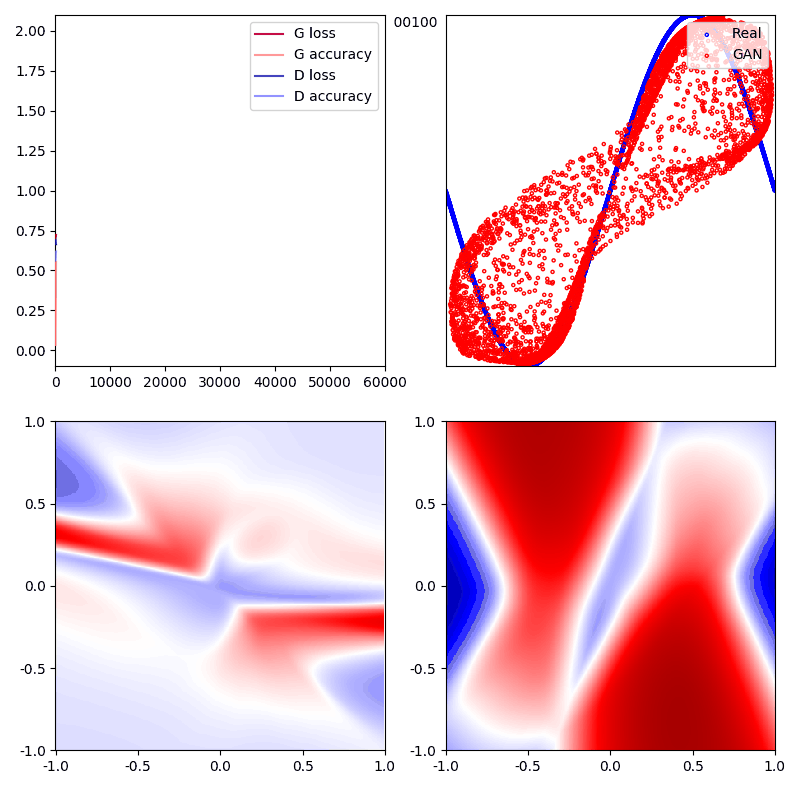
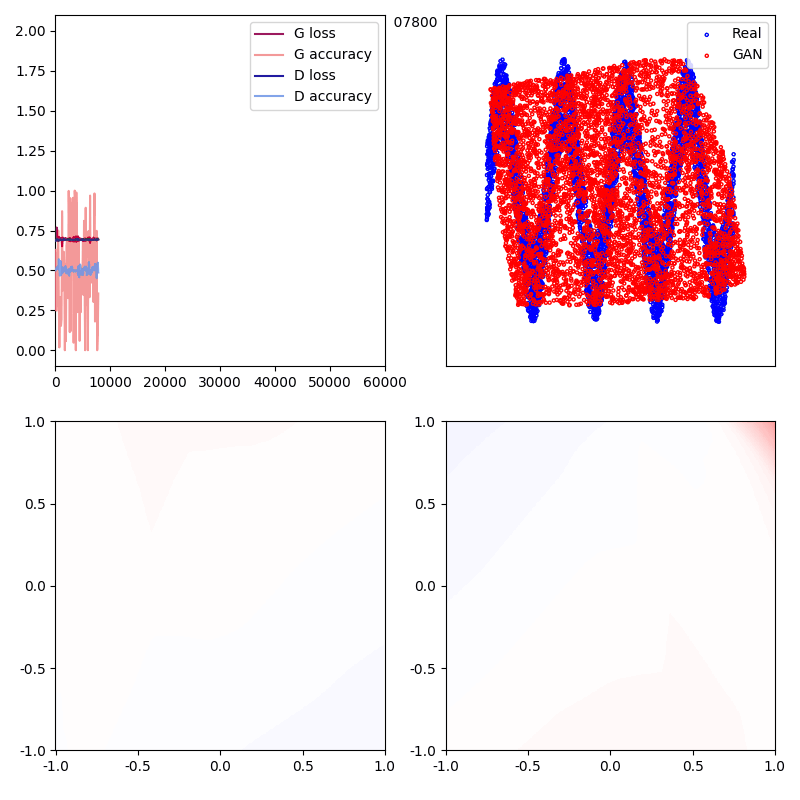
1

diff --git a/MDYSB6/MDYSB6.tex b/MDYSB6/MDYSB6.tex
@@ -95,7 +95,7 @@ GAN通常都会应用在如生成各种各样的图像的问题上. 这些问题
 我们实验的第一个变换是将整个方块变换为正弦波, 即
 \begin{align}
 	f_x(x,y)&=x\\
-	f_y(x,y)&=sin(x)
+	f_y(x,y)&=sin(x)+\dfrac{y}{4}
 \end{align}
 
 \begin{figure}[hbt]
@@ -107,25 +107,27 @@ GAN通常都会应用在如生成各种各样的图像的问题上. 这些问题
   \caption{从左到右可以看出我们的变换$f$如何从Unif$[-1,1]^2$生成所需分布$\mathcal U$}
 \end{figure}
 
-我们得到的是一个在这条曲线上的均匀分布.
+我们得到的是一个在这个正弦波形区域里的均匀分布.
 
 \subsubsection{实验结果}
+
+我们的实验发现这样的训练一共大概分三个时期. 捕捉大致范围, 捕捉细致分布到最后病态化.
+
+\subsubsection{捕捉大致范围}
 
 \begin{figure}[hbt]
 \centering
   \includegraphics[width=0.45\textwidth]{sin_2_1}
   \includegraphics[width=0.45\textwidth]{sin_2_2}\\
-  \includegraphics[width=0.45\textwidth]{sin_2_3}
-  \includegraphics[width=0.45\textwidth]{sin_2_4}
-  \caption{我们可以看到我们的网络收敛地十分迅速, 在200次左右的迭代后我们的生成器已经可以生成这样的的数据了. 并且我们的分类器也很好地捕捉到了样本空间的分类边界.}
+  \caption{}
 \end{figure}
 
-我们的可视化在训练刚开始的时候收敛的十分迅速, 得到了比较好的结果. 因为我们的函数非常简单, 我们的GAN的表现看似非常满意.
+首先我们看到在GAN得训练的初期阶段, 我们的分类器在帮助我们的生成器去捕捉一个大概的分布的范围. 并且很快我们的生成器就捕捉到了大致的范围, 可能是因为我们的函数比较简单.
 
 
-\subsubsection{GAN的混沌性}
+\subsubsection{捕捉细致分布}
 
-但是随着实验的进行, GAN的分类器网络的训练呈现出了极度混沌化的特征. 其分类边界与分类区域出现了多次彻底的反转, 并且其变化呈现出了完全没有规律的特点. 在我们的生成器已经很好地捕捉到了分布的前提下, 我们的分类器却在不断摇摆.
+随着训练的进行, 我们发现一开始在捕捉到大致范围了以后, 生成器生成的点反而比较集中于两个波峰之间的白色区域里, 也就是没有生成出我们需要的样本. 但是慢慢的我们的辨别器成功地帮我们的生成器矫正了这些错误. 我们的生成器在经过15000次训练了以后表现已经不错了. 只有少部分点落在了白色区域, 大部分点都集中在了真实样本所在的区域. 这个时候我们的生成器已经可以代替我们的$f$来进行数据生成的工作了.
 
 \begin{figure}[hbt]
 \centering
@@ -133,20 +135,32 @@ GAN通常都会应用在如生成各种各样的图像的问题上. 这些问题
   \includegraphics[width=0.45\textwidth]{sin_3_2}\\
   \includegraphics[width=0.45\textwidth]{sin_3_3}
   \includegraphics[width=0.45\textwidth]{sin_3_4}
-  \caption{从图上可以看到上下两行的分类器在输入空间中的分类情况在我们的生成器已经习得了需要分布了以后, 发生了彻底的反转. 分类器再经过了几个batch以后彻底推翻了自己之前的结果. 从图上看就是之前是蓝的的地方现在变成了红色, 之前是红色的地方现在变成了蓝色. 下面一行也有着类似的情况.}
-\end{figure}
-
-并且随着训练的进行, 我们的辨别器捕捉到的在样本空间中的分类边界反而变得比一开始更加模糊, 之前认为是真实样本的区域完全消失掉了. 原来样本空间中正弦波样式的分类边界逐渐消失变为了一整个辨别器无法确定真假的长方形区域. 并且我们在输入空间中的辨别器输出大部分都变为了不确定. 同时生成器也出现了较大的波动. 
-
-\begin{figure}[hbt]
-  \includegraphics[width=0.45\textwidth]{sin_5_1}
-  \includegraphics[width=0.45\textwidth]{sin_5_2}\\
-  \includegraphics[width=0.45\textwidth]{sin_5_3}
-  \includegraphics[width=0.45\textwidth]{sin_5_4}
   \caption{}
 \end{figure}
 
-我们无法明确地解释为什么会出现这样的混沌现象. 但是这的确是GAN的特点之一. 我们认为通过多次实验或者是对超参数的调整可能能够解决这样的问题. 不过这么简单的一个函数的拟合能够反映出来这么多有趣的现象的确是我们没有想到的. GAN的训练的困难可见一斑.
+%并且随着训练的进行, 我们的辨别器捕捉到的在样本空间中的分类边界反而变得比一开始更加模糊, 之前认为是真实样本的区域完全消失掉了. 原来样本空间中正弦波样式的分类边界逐渐消失变为了一整个辨别器无法确定真假的长方形区域. 并且我们在输入空间中的辨别器输出大部分都变为了不确定. 同时生成器也出现了较大的波动. 
+
+\subsubsection{病态化}
+
+但是随着训练的继续, 我们发现我们的GAN陷入了一个无法跳出的怪圈. 我们的分类器指导我们的生成器向着一个错误的方向进行了改进, 并且一直到60000次训练结束的时候我们还是看不到任何的改善. 首先我们的在白色区域的生成样本逐渐变多. 并且可以很明显的看到我们的生成样本在逐渐集中到一条对角线上. 我们认为这样的现象有如下几种可能
+
+\begin{enumerate}
+	\item 网络太浅, 表达能力不足.
+	\item 训练次数不够.
+	\item 超参不合适.
+\end{enumerate}
+
+我们通过进一步的实验的现象猜测最有可能是因为超参数的设置不合理. 进一步实验的细节见后.
+
+\begin{figure}[hbt]
+  \includegraphics[width=0.3\textwidth]{sin_4_1}
+  \includegraphics[width=0.3\textwidth]{sin_4_2}
+  \includegraphics[width=0.3\textwidth]{sin_4_3}\\
+  \includegraphics[width=0.3\textwidth]{sin_4_4}
+  \includegraphics[width=0.3\textwidth]{sin_4_5}
+  \includegraphics[width=0.3\textwidth]{sin_4_6}
+  \caption{}
+\end{figure}
 
 
 \subsection{圆}
@@ -250,6 +264,12 @@ GAN通常都会应用在如生成各种各样的图像的问题上. 这些问题
 我们可以看到随着训练的进行, 我们的生成器逐渐捕捉到了分布集中在曲线上这一特点. 并且逐渐有更多的点附着到了曲线上. 而分类器这次的表现十分稳固, 在输入空间上没有出现经过了一个Batch就彻底输出彻底反转的现象. 并且在园内的部分, 真实数据分布在一条曲线上的特征分类器也很好地捕捉到了. 有趣的是观察我们的分类器如何随着我们的生成器捕捉到分类边界. 首先一个高置信度的真实样本区间出现在左下角, 随着训练的进行逐渐右下角也出现了这样的一个真实样本区域, 然后两个区域逐渐分离并向上运动, 最后收缩成为两个翅膀的样子. 与此同时我们的生成器在一开始在两个翅膀的位置还是有生成样本的, 但是随着这两个高置信度真实样本区间的出现与收紧, 他就再也没有生成出任何在这两个翅膀的区域上的样本了. 可以说我们的GAN在这个圆里达到了平衡, 但是在翅膀的部分我们的辨别器完全主宰了我们的生成器. 
 
 同时我们这个时候我们再看之前观测到的那个红色区域, 我们可以发现这个红色区域在此时变成了红色与蓝色交叉的区域, 同时样本空间中的边缘也是红色蓝色相间的. 我们基本上可以断定我们的生成器把这个部分映射到了样本空间的边角上.
+
+\section{超参对比}
+
+\subsection{正弦波}
+
+\subsection{翅膀型}
 
 \nocite{*}
 
